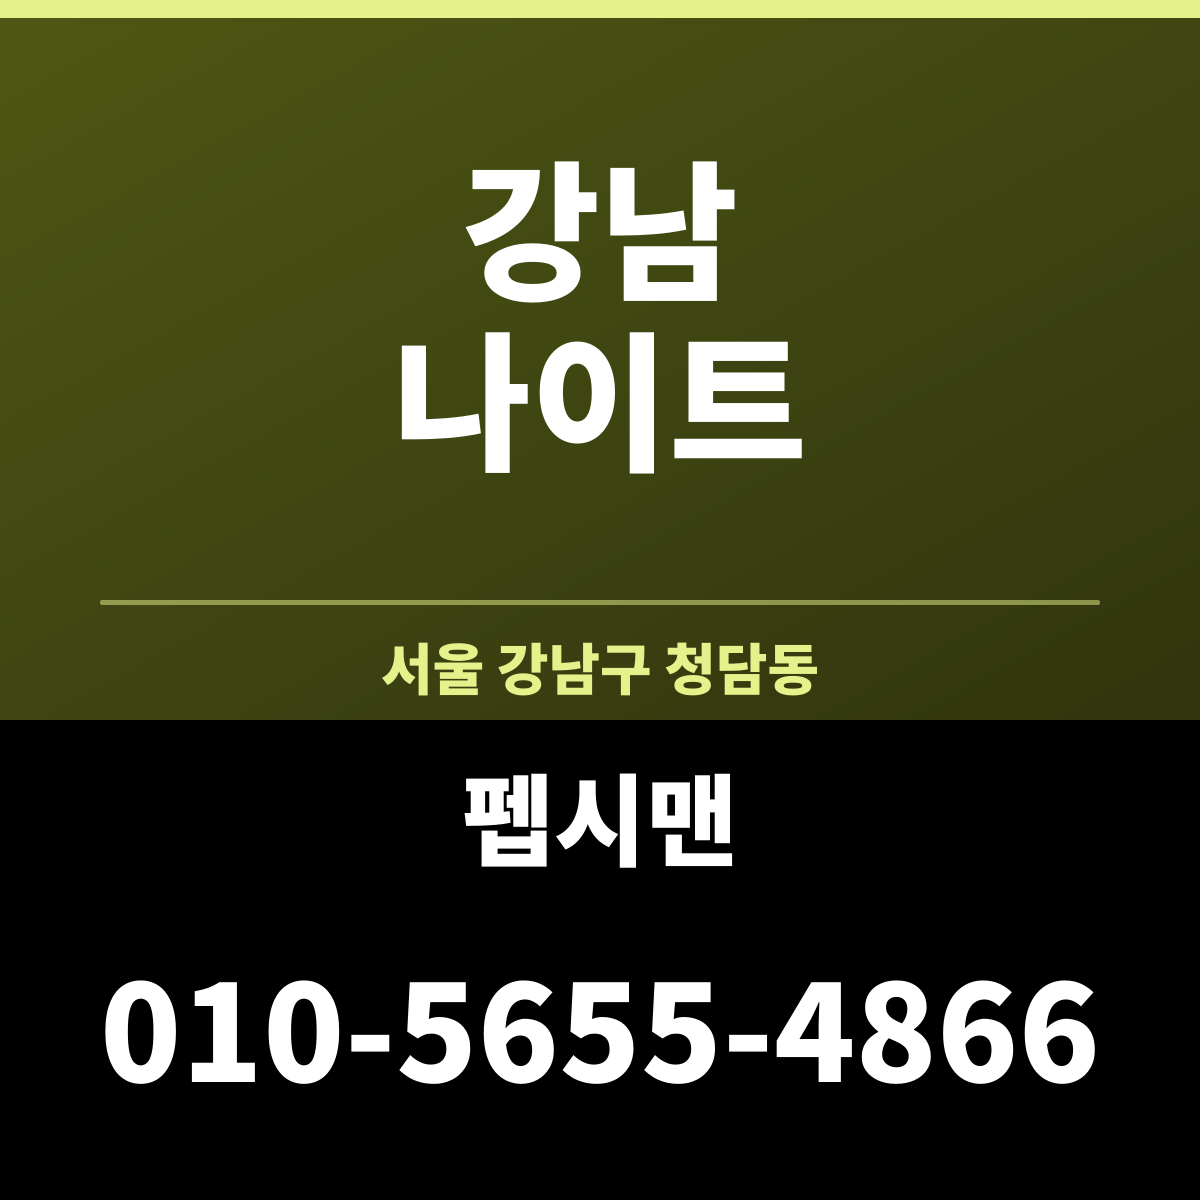
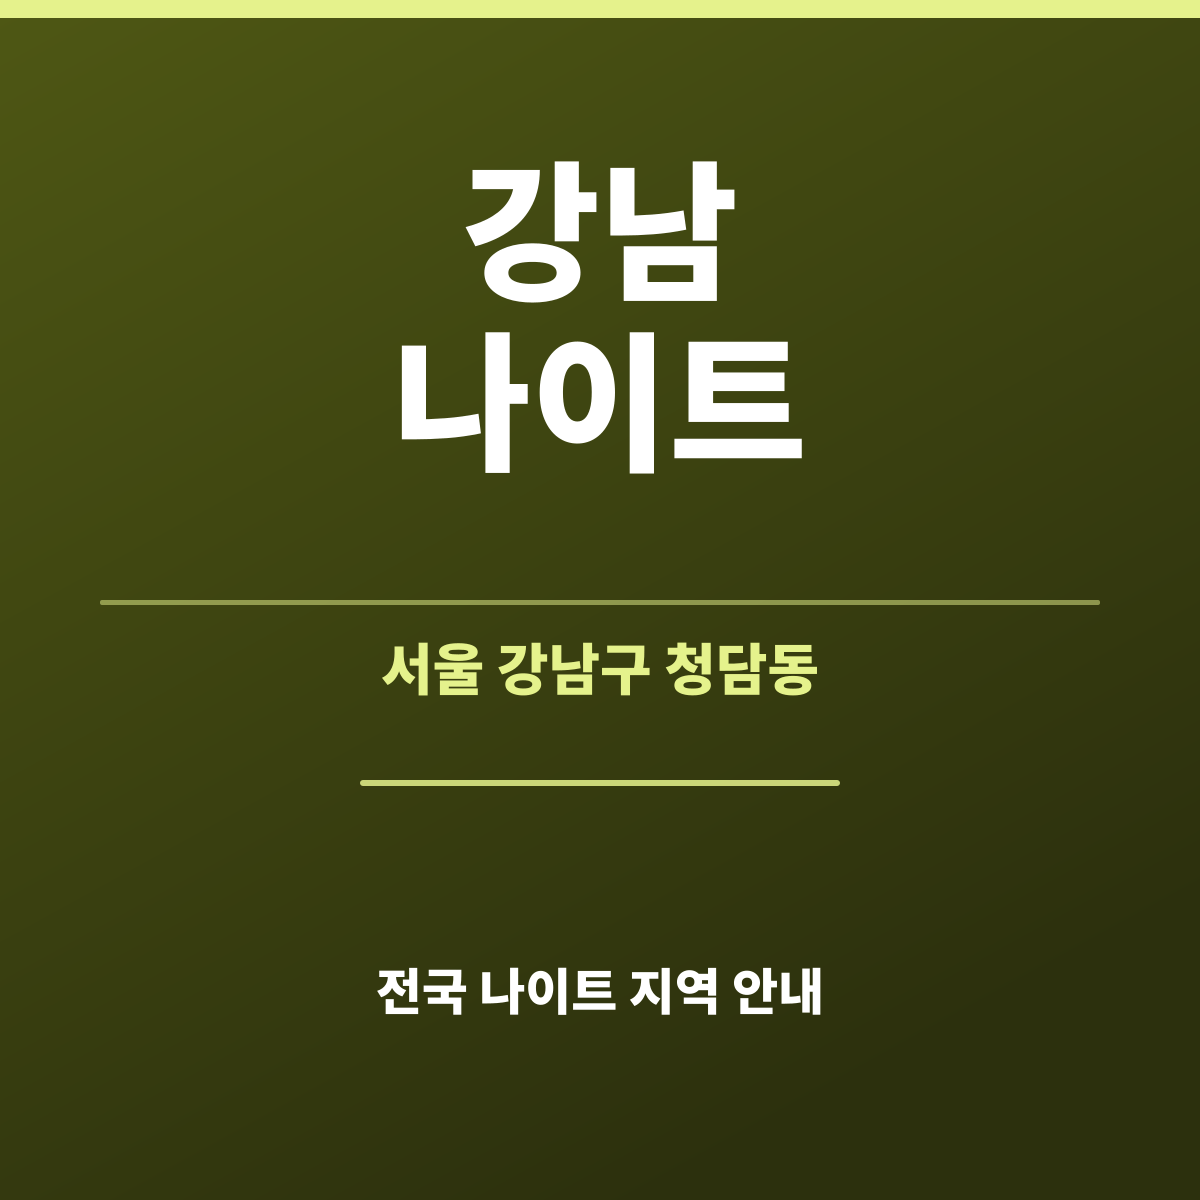
fix(night): 고정 하단바 규칙 변경 — 광고주 3곳만 각자 번호, 그 외 전부 카톡 besta12
- /night/ 업소 37곳 + 허브: 전화바 → '광고문의 카톡: besta12' (open.kakao.com/o/sBesta12)
- 광고주 3곳은 각자 번호 유지 (울산챔피언=춘자 / 창원룰루랄라=로또 / 불광동호박=손흥민)
- 강남나이트 지역 페이지: 계약 종료 번호(010-5655-4866) 본문·FAQ·og:image:alt·썸네일에서 전면 삭제
- 게이트 G8/RTEL 신규 규칙으로 갱신 후 14종 전량 통과

diff --git a/night/gangnam-night/index.html b/night/gangnam-night/index.html
@@ -26,7 +26,7 @@
 <meta property="og:image:width" content="1200">
 <meta property="og:image:height" content="1200">
 <meta property="og:image:type" content="image/png">
-<meta property="og:image:alt" content="강남나이트 안내 카드 — 서울 강남구 인원별 좌석 정리, 담당 펩시맨 010-5655-4866">
+<meta property="og:image:alt" content="강남나이트 안내 카드 — 서울 강남구 인원별 좌석 정리, 광고문의 카카오톡 besta12">
 <meta name="twitter:card" content="summary">
 <meta name="twitter:title" content="강남나이트 단체 방문 안내 여덟 명 앉히는 법">
 <meta name="twitter:description" content="강남나이트는 인원 수 하나로 자리와 부킹이 통째로 갈립니다. 둘, 넷, 여덟 명일 때 무엇이 달라지는지 자리 배정이 도는 순서까지 함께 적었습니다.">
@@ -182,7 +182,7 @@ body{background:#fff;color:#15161a;padding-bottom:calc(84px + env(safe-area-inse
       "name": "강남나이트 단체 예약은 어디로 하나요?",
       "acceptedAnswer": {
         "@type": "Answer",
-        "text": "펩시맨 010-5655-4866으로 인원과 도착 시각을 전하면 됩니다. 붙은 자리 여부도 함께 말하십시오."
+        "text": "카카오톡 besta12로 인원과 도착 시각을 전하면 됩니다. 붙은 자리 여부도 함께 말하십시오."
       }
     }
   ]
@@ -254,7 +254,7 @@ body{background:#fff;color:#15161a;padding-bottom:calc(84px + env(safe-area-inse
             <tr><th scope="row">행정 구역</th><td>서울 강남구</td></tr>
             <tr><th scope="row">이 페이지가 다루는 것</th><td>인원별 공략형 정리</td></tr>
             <tr><th scope="row">연결 업소</th><td>청담나이트 · 영동대로 737 지하 1층</td></tr>
-            <tr><th scope="row">문의</th><td>펩시맨 010-5655-4866</td></tr>
+            <tr><th scope="row">문의</th><td>광고·제휴 입점 문의 카카오톡 besta12</td></tr>
           </tbody>
         </table>
       </div>
@@ -307,8 +307,8 @@ body{background:#fff;color:#15161a;padding-bottom:calc(84px + env(safe-area-inse
       </section>
 
       <section>
-        <h2 class="rg-h2">강남 나이트 단체 문의는 펩시맨에게</h2>
-        <p class="rg-p">단체 문의는 펩시맨 010-5655-4866입니다. 인원과 도착 시각을 정확히 전하십시오.</p>
+        <h2 class="rg-h2">강남 나이트 단체 문의는 어디로 하나</h2>
+        <p class="rg-p">단체 문의 창구는 카카오톡 besta12입니다. 인원과 도착 시각을 정확히 전하십시오.</p>
         <p class="rg-p">붙은 자리가 필요한지 나뉘어도 되는지 함께 말해 두면 배정이 빨라집니다.</p>
         <p class="rg-p">주말 단체는 하루 전에 말해 두는 쪽이 안전합니다.</p>
         <p class="rg-bridge">아래 세 줄로 정리합니다.</p>
@@ -319,9 +319,9 @@ body{background:#fff;color:#15161a;padding-bottom:calc(84px + env(safe-area-inse
         <ul>
           <li>강남나이트는 인원 수 하나로 자리와 부킹이 통째로 갈립니다.</li>
           <li>여섯 명이 넘으면 붙은 자리를 미리 말해 두어야 합니다.</li>
-          <li>단체 문의는 펩시맨 010-5655-4866으로 하면 됩니다.</li>
+          <li>단체 문의는 카카오톡 besta12로 하면 됩니다.</li>
         </ul>
-        <p class="rg-p">강남나이트 자리 문의는 펩시맨 010-5655-4866입니다.</p>
+        
       </section>
 
       </div>
@@ -348,8 +348,8 @@ body{background:#fff;color:#15161a;padding-bottom:calc(84px + env(safe-area-inse
   <p class="footer-note">최종 수정 <time datetime="2026-08-15">2026년 8월 15일</time> · 공개된 웹 정보를 정리했으며 실제와 다를 수 있습니다.</p>
 </footer>
 
-<div class="callbar" role="complementary" aria-label="전화 연결">
-  <a href="tel:01056554866">📞 펩시맨 010-5655-4866</a>
+<div class="callbar" role="complementary" aria-label="광고 제휴 문의">
+  <span>광고·제휴 입점 문의 카톡 <b>besta12</b></span>
 </div>
 
 </body>

diff --git a/scripts/region/gangnam-night.js b/scripts/region/gangnam-night.js
@@ -10,17 +10,17 @@ module.exports = {
   region: '서울 강남구',
   regionShort: '강남',
   geo: 'KR-11',
-  group: 'A',
+  group: 'B',
   hue: 68,
   angleNo: 11,
   angleName: '인원별 공략형',
   suffix: '단체 방문 안내',
-  contact: { person: '펩시맨', tel: '010-5655-4866', raw: '01056554866' },
+  contact: null,
   venue: { slug: 'cheongdam-night', name: '청담나이트', where: '영동대로 737 지하 1층' },
   title: '강남나이트 단체 방문 안내 여덟 명 앉히는 법',
   description: '강남나이트는 인원 수 하나로 자리와 부킹이 통째로 갈립니다. 둘, 넷, 여덟 명일 때 무엇이 달라지는지 자리 배정이 도는 순서까지 함께 적었습니다.',
   keywords: '강남나이트, 강남 나이트, 강남 나이트클럽, 청담동 나이트, 강남구 나이트',
-  ogAlt: '강남나이트 안내 카드 — 서울 강남구 인원별 좌석 정리, 담당 펩시맨 010-5655-4866',
+  ogAlt: '강남나이트 안내 카드 — 서울 강남구 인원별 좌석 정리, 광고문의 카카오톡 besta12',
   ogLines: ['강남', '나이트'],
   ogRegion: '서울 강남구 청담동',
   heroBadge: '서울 강남구 · 인원별 정리',
@@ -85,20 +85,20 @@ module.exports = {
       faq: { q: '강남 나이트클럽은 어디를 보면 되나요?', a: '청담동 영동대로 737 지하 1층의 청담나이트가 대표로 꼽힙니다. 7호선 청담역이 가깝습니다.' }
     },
     {
-      h2: '강남 나이트 단체 문의는 펩시맨에게',
+      h2: '강남 나이트 단체 문의는 어디로 하나',
       ps: [
-        '단체 문의는 펩시맨 010-5655-4866입니다. 인원과 도착 시각을 정확히 전하십시오.',
+        '단체 문의 창구는 카카오톡 besta12입니다. 인원과 도착 시각을 정확히 전하십시오.',
         '붙은 자리가 필요한지 나뉘어도 되는지 함께 말해 두면 배정이 빨라집니다.',
         '주말 단체는 하루 전에 말해 두는 쪽이 안전합니다.'
       ],
       bridge: '아래 세 줄로 정리합니다.',
-      faq: { q: '강남나이트 단체 예약은 어디로 하나요?', a: '펩시맨 010-5655-4866으로 인원과 도착 시각을 전하면 됩니다. 붙은 자리 여부도 함께 말하십시오.' }
+      faq: { q: '강남나이트 단체 예약은 어디로 하나요?', a: '카카오톡 besta12로 인원과 도착 시각을 전하면 됩니다. 붙은 자리 여부도 함께 말하십시오.' }
     }
   ],
   summary: [
     '강남나이트는 인원 수 하나로 자리와 부킹이 통째로 갈립니다.',
     '여섯 명이 넘으면 붙은 자리를 미리 말해 두어야 합니다.',
-    '단체 문의는 펩시맨 010-5655-4866으로 하면 됩니다.'
+    '단체 문의는 카카오톡 besta12로 하면 됩니다.'
   ],
   links: ['sillim-night', 'suyu-night', 'sangbong-night']
 };

diff --git a/scripts/night40-gates.js b/scripts/night40-gates.js
@@ -127,8 +127,18 @@ const add = (id, pass, metric) => results.push({ id, pass, metric });
     if (!p.src.includes('86086f8f927252a5021544b971d07b18a5e03a22')) miss.push('naver인증');
     if (!p.src.includes('rel="canonical"')) miss.push('canonical');
     if (!p.src.includes('application/ld+json')) miss.push('JSON-LD');
-    if (!(p.src.includes('tel:01056530069') || p.src.includes('tel:010-5653-0069'))) miss.push('전화바tel');
-    if (!p.src.includes('울산챔피언나이트 춘자 010-5653-0069')) miss.push('전화바문구');
+    /* 고정 하단바: 광고주 3곳은 각자 번호 tel: / 그 외 업소·허브는 광고문의 카톡 besta12 / 홈은 춘자 번호 */
+    const adv = p.kind === 'venue' && p.venue.contact ? p.venue.contact : null;
+    if (p.kind === 'home') {
+      if (!(p.src.includes('tel:010-5653-0069') || p.src.includes('tel:01056530069'))) miss.push('전화바tel');
+      if (!p.src.includes('울산챔피언나이트 춘자 010-5653-0069')) miss.push('전화바문구');
+    } else if (adv) {
+      if (!p.src.includes('class="callbar" href="tel:' + adv.raw + '"')) miss.push('전화바tel');
+      if (!p.src.includes('📞 ' + p.venue.name + ' ' + adv.person + ' ' + adv.tel)) miss.push('전화바문구');
+    } else {
+      if (!p.src.includes('class="callbar" href="https://open.kakao.com/o/sBesta12"')) miss.push('광고바링크');
+      if (!p.src.includes('💬 광고문의 카톡: besta12')) miss.push('광고바문구');
+    }
     if (!p.src.includes('besta12')) miss.push('푸터besta12');
     if (!p.src.includes('공개된 웹 정보를 정리했으며 실제와 다를 수 있습니다')) miss.push('푸터고지');
     if (!p.src.includes(TODAY)) miss.push('오늘날짜');
@@ -182,10 +192,11 @@ function extraChecks() {
     const bad = [];
     const phoneRe = /0\d{1,2}[-.\s]?\d{3,4}[-.\s]?\d{4}/g;
     Object.entries(pages).forEach(([k, p]) => {
-      const allowed = new Set(['010-5653-0069', '01056530069']);
+      /* 춘자 번호는 울산챔피언나이트 페이지와 홈에만 허용 — 그 외 페이지는 어떤 번호도 불가 */
+      const allowed = new Set();
+      if (k === 'night/ulsan-champion-night' || k === 'home') { allowed.add('010-5653-0069'); allowed.add('01056530069'); allowed.add('+82-10-5653-0069'); }
       if (k === 'night/changwon-lululala-night') { allowed.add('010-7528-4936'); allowed.add('01075284936'); allowed.add('+82-10-7528-4936'); }
       if (k === 'night/bulgwang-hobak-night') { allowed.add('010-2221-1937'); allowed.add('01022211937'); allowed.add('+82-10-2221-1937'); }
-      if (k === 'night/ulsan-champion-night' || k === 'home') allowed.add('+82-10-5653-0069');
       const found = [...new Set((p.src.match(phoneRe) || []))];
       found.forEach((f) => {
         const norm = f.replace(/[\s.]/g, '');

diff --git a/scripts/build-night40.js b/scripts/build-night40.js
@@ -24,6 +24,8 @@ const BRAND = '놀쿨';
 
 const CALLBAR_TEL = '01056530069';
 const CALLBAR_TEXT = '📞 울산챔피언나이트 춘자 010-5653-0069';
+const KAKAO_URL = 'https://open.kakao.com/o/sBesta12';
+const AD_BAR_TEXT = '💬 광고문의 카톡: besta12';
 
 const ORDER = [
   'sillim-grandprix-night', 'sangbong-hangukgwan-night', 'suyu-shampoo-night', 'busan-asiad-night',
@@ -100,8 +102,16 @@ function factRows(v) {
   return rows;
 }
 
-const callbar = () =>
-  '<a class="callbar" href="tel:' + CALLBAR_TEL + '" aria-label="울산챔피언나이트 춘자에게 전화 연결">' + CALLBAR_TEXT + '</a>';
+/* 고정 하단바 — 광고주 3곳은 각자 번호(tel:), 그 외 37곳·허브는 광고문의 카톡 besta12
+   ⓐ 오인 전화(광고주 피해) 방지: 광고주가 아닌 페이지에는 어떤 전화번호도 넣지 않는다. */
+const callbar = (v) => {
+  if (v && v.contact) {
+    return '<a class="callbar" href="tel:' + v.contact.raw + '" aria-label="' + esc(v.name) + ' ' + esc(v.contact.person) + '에게 전화 연결">' +
+      '📞 ' + esc(v.name) + ' ' + esc(v.contact.person) + ' ' + esc(v.contact.tel) + '</a>';
+  }
+  return '<a class="callbar" href="' + KAKAO_URL + '" target="_blank" rel="noopener noreferrer" aria-label="광고문의 카카오톡 besta12로 이동">' +
+    AD_BAR_TEXT + '</a>';
+};
 
 const footer = () => `<footer class="site-footer">
   <div class="ad-inquiry">광고문의 카톡: <strong>besta12</strong></div>
@@ -353,7 +363,7 @@ ${links}
 
 ${footer()}
 
-${callbar()}
+${callbar(v)}
 
 </body>
 </html>

diff --git a/night/index.html b/night/index.html
@@ -390,6 +390,6 @@ a.callbar{
   <p class="footer-note">본 페이지는 업소 정보 제공 페이지입니다. 출입 연령 및 이용 규정은 각 업소 방침을 따릅니다.</p>
   <p class="footer-note">공개된 웹 정보를 정리했으며 실제와 다를 수 있습니다. 최종 수정 <time datetime="2026-08-16">2026년 8월 16일</time></p>
 </footer>
-<a class="callbar" href="tel:01056530069" aria-label="울산챔피언나이트 춘자에게 전화 연결">📞 울산챔피언나이트 춘자 010-5653-0069</a>
+<a class="callbar" href="https://open.kakao.com/o/sBesta12" target="_blank" rel="noopener noreferrer" aria-label="광고문의 카카오톡 besta12로 이동">💬 광고문의 카톡: besta12</a>
 </body>
 </html>

diff --git a/night/ansan-hit-night/index.html b/night/ansan-hit-night/index.html
@@ -297,7 +297,7 @@ a.callbar{
   <p class="footer-note">공개된 웹 정보를 정리했으며 실제와 다를 수 있습니다. 최종 수정 <time datetime="2026-08-16">2026년 8월 16일</time></p>
 </footer>
 
-<a class="callbar" href="tel:01056530069" aria-label="울산챔피언나이트 춘자에게 전화 연결">📞 울산챔피언나이트 춘자 010-5653-0069</a>
+<a class="callbar" href="https://open.kakao.com/o/sBesta12" target="_blank" rel="noopener noreferrer" aria-label="광고문의 카카오톡 besta12로 이동">💬 광고문의 카톡: besta12</a>
 
 </body>
 </html>

diff --git a/night/bucheon-gorae-night/index.html b/night/bucheon-gorae-night/index.html
@@ -301,7 +301,7 @@ a.callbar{
   <p class="footer-note">공개된 웹 정보를 정리했으며 실제와 다를 수 있습니다. 최종 수정 <time datetime="2026-08-16">2026년 8월 16일</time></p>
 </footer>
 
-<a class="callbar" href="tel:01056530069" aria-label="울산챔피언나이트 춘자에게 전화 연결">📞 울산챔피언나이트 춘자 010-5653-0069</a>
+<a class="callbar" href="https://open.kakao.com/o/sBesta12" target="_blank" rel="noopener noreferrer" aria-label="광고문의 카카오톡 besta12로 이동">💬 광고문의 카톡: besta12</a>
 
 </body>
 </html>

diff --git a/night/busan-asiad-night/index.html b/night/busan-asiad-night/index.html
@@ -300,7 +300,7 @@ a.callbar{
   <p class="footer-note">공개된 웹 정보를 정리했으며 실제와 다를 수 있습니다. 최종 수정 <time datetime="2026-08-16">2026년 8월 16일</time></p>
 </footer>
 
-<a class="callbar" href="tel:01056530069" aria-label="울산챔피언나이트 춘자에게 전화 연결">📞 울산챔피언나이트 춘자 010-5653-0069</a>
+<a class="callbar" href="https://open.kakao.com/o/sBesta12" target="_blank" rel="noopener noreferrer" aria-label="광고문의 카카오톡 besta12로 이동">💬 광고문의 카톡: besta12</a>
 
 </body>
 </html>

diff --git a/night/cheonan-korea-night/index.html b/night/cheonan-korea-night/index.html
@@ -299,7 +299,7 @@ a.callbar{
   <p class="footer-note">공개된 웹 정보를 정리했으며 실제와 다를 수 있습니다. 최종 수정 <time datetime="2026-08-16">2026년 8월 16일</time></p>
 </footer>
 
-<a class="callbar" href="tel:01056530069" aria-label="울산챔피언나이트 춘자에게 전화 연결">📞 울산챔피언나이트 춘자 010-5653-0069</a>
+<a class="callbar" href="https://open.kakao.com/o/sBesta12" target="_blank" rel="noopener noreferrer" aria-label="광고문의 카카오톡 besta12로 이동">💬 광고문의 카톡: besta12</a>
 
 </body>
 </html>

diff --git a/night/cheonan-stardome-night/index.html b/night/cheonan-stardome-night/index.html
@@ -299,7 +299,7 @@ a.callbar{
   <p class="footer-note">공개된 웹 정보를 정리했으며 실제와 다를 수 있습니다. 최종 수정 <time datetime="2026-08-16">2026년 8월 16일</time></p>
 </footer>
 
-<a class="callbar" href="tel:01056530069" aria-label="울산챔피언나이트 춘자에게 전화 연결">📞 울산챔피언나이트 춘자 010-5653-0069</a>
+<a class="callbar" href="https://open.kakao.com/o/sBesta12" target="_blank" rel="noopener noreferrer" aria-label="광고문의 카카오톡 besta12로 이동">💬 광고문의 카톡: besta12</a>
 
 </body>
 </html>

diff --git a/night/cheongdam-night/index.html b/night/cheongdam-night/index.html
@@ -297,7 +297,7 @@ a.callbar{
   <p class="footer-note">공개된 웹 정보를 정리했으며 실제와 다를 수 있습니다. 최종 수정 <time datetime="2026-08-16">2026년 8월 16일</time></p>
 </footer>
 
-<a class="callbar" href="tel:01056530069" aria-label="울산챔피언나이트 춘자에게 전화 연결">📞 울산챔피언나이트 춘자 010-5653-0069</a>
+<a class="callbar" href="https://open.kakao.com/o/sBesta12" target="_blank" rel="noopener noreferrer" aria-label="광고문의 카카오톡 besta12로 이동">💬 광고문의 카톡: besta12</a>
 
 </body>
 </html>

diff --git a/night/cheongju-hobak-night/index.html b/night/cheongju-hobak-night/index.html
@@ -299,7 +299,7 @@ a.callbar{
   <p class="footer-note">공개된 웹 정보를 정리했으며 실제와 다를 수 있습니다. 최종 수정 <time datetime="2026-08-16">2026년 8월 16일</time></p>
 </footer>
 
-<a class="callbar" href="tel:01056530069" aria-label="울산챔피언나이트 춘자에게 전화 연결">📞 울산챔피언나이트 춘자 010-5653-0069</a>
+<a class="callbar" href="https://open.kakao.com/o/sBesta12" target="_blank" rel="noopener noreferrer" aria-label="광고문의 카카오톡 besta12로 이동">💬 광고문의 카톡: besta12</a>
 
 </body>
 </html>
